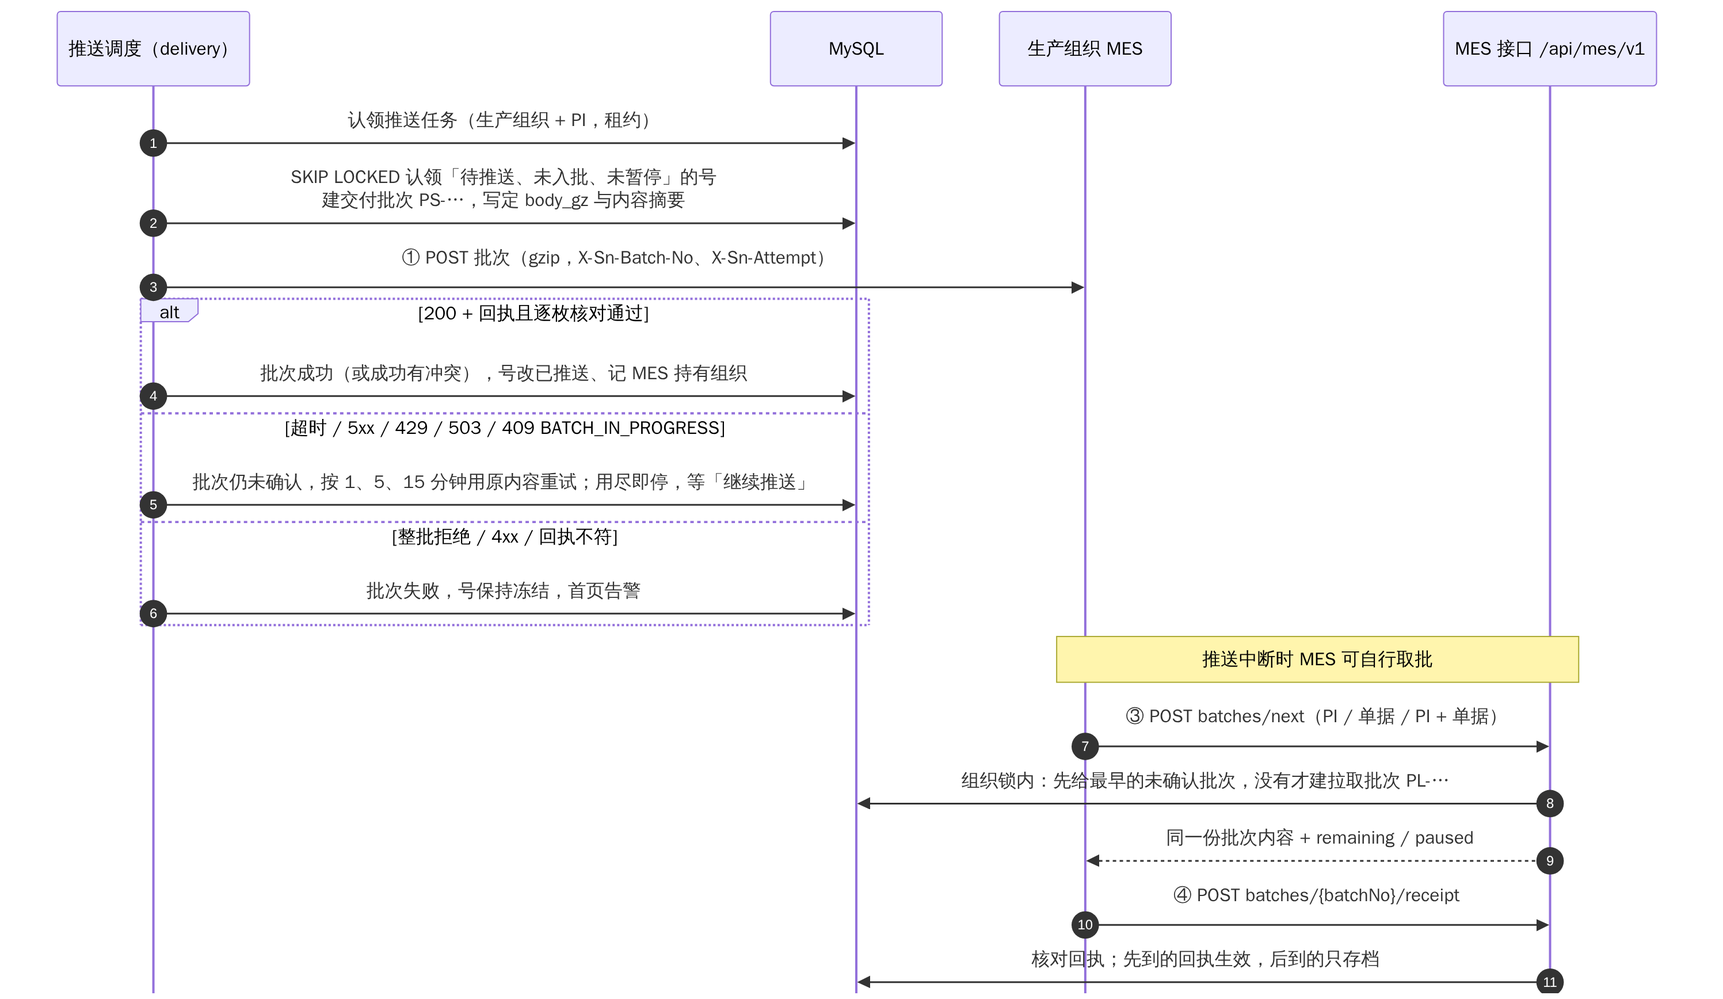
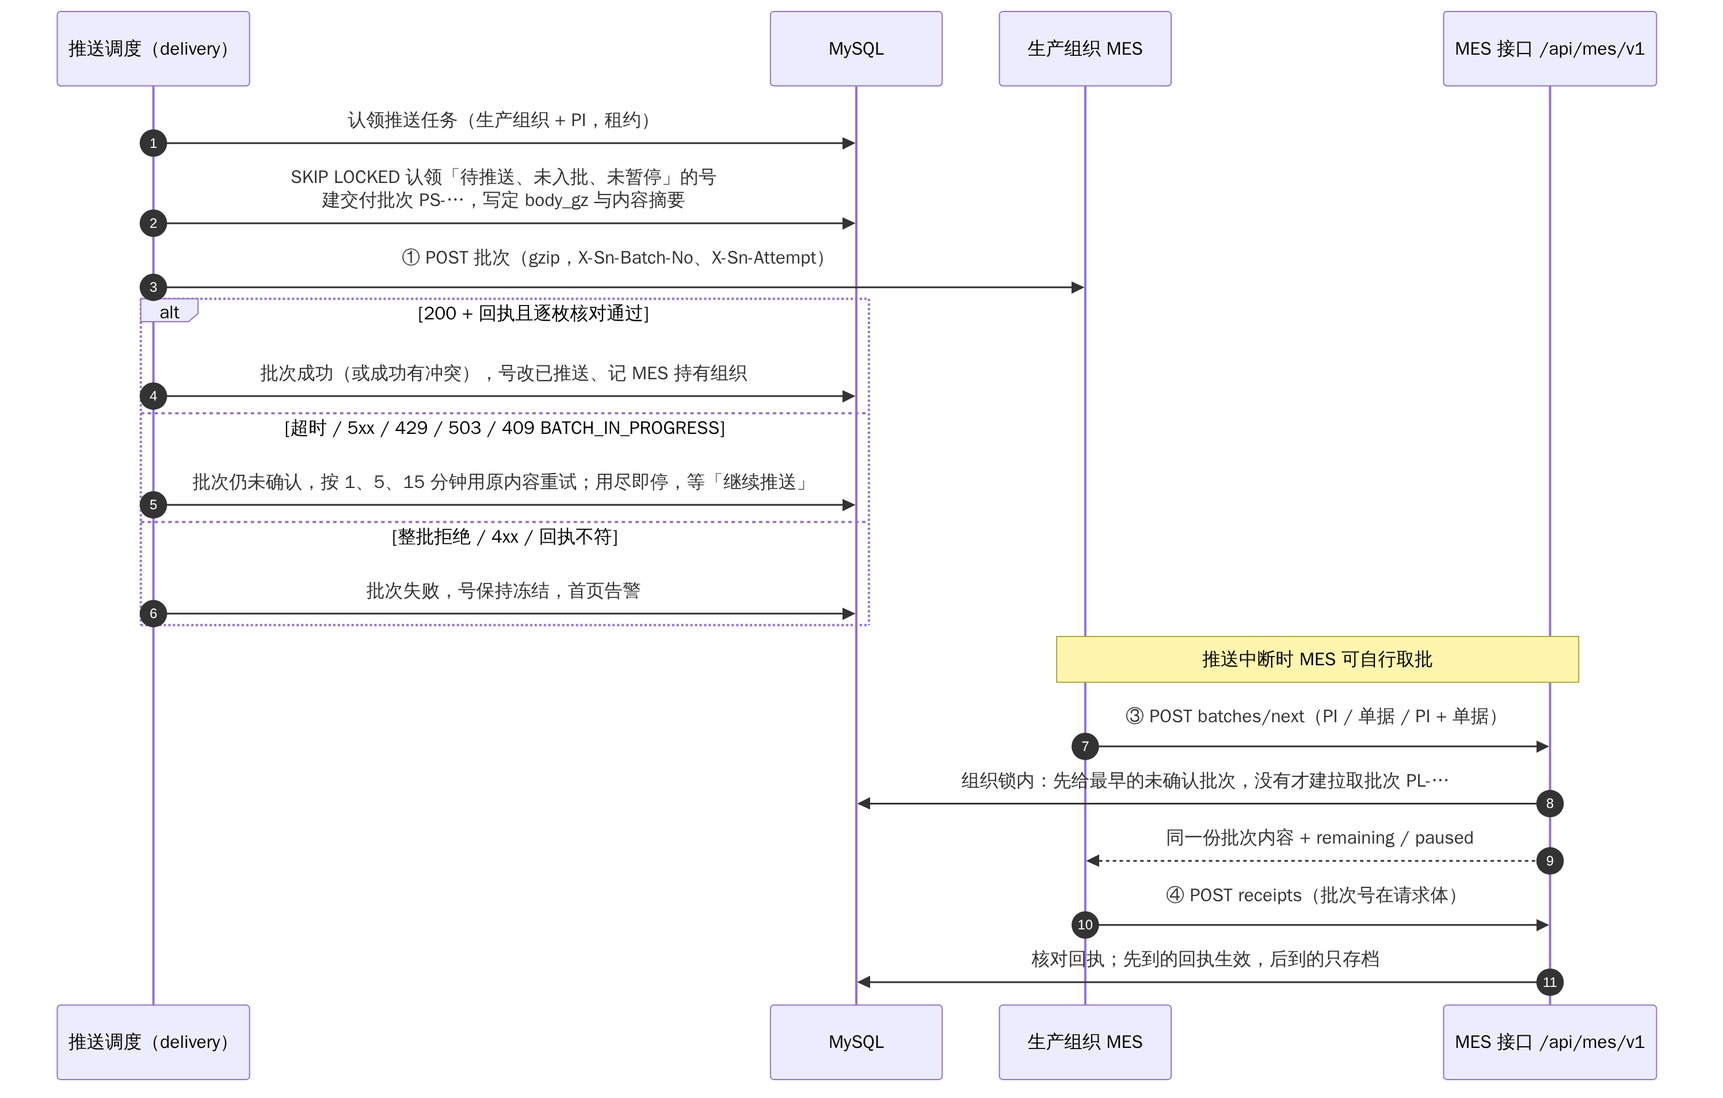
MES 接口参数统一放请求体：③ 回执改为 POST /receipts，④⑤ 改为 POST
- ③ 提交回执：POST /api/mes/v1/receipts，批次号取自请求体 batchNo（须与下发的完全一致）；
  不支持 gzip（请求体带 Content-Encoding: gzip 返回 400）
- ③ batchNo 缺失、code 不是 OK / NG 时 400 INVALID_REQUEST，只拒收、批次不变（原为 422 RECEIPT_MISMATCH 并记批次失败）；
  RECEIPT_MISMATCH 只用于 ① 推送应答核对
- ④ POST /api/mes/v1/sn/delivered、⑤ POST /api/mes/v1/batches/items：参数改到请求体，类型不对时 400；仍支持 gzip
- 删除旧地址 /batches/{batchNo}/receipt、GET /sn/delivered、GET /batches/{batchNo}/items
- 审计规则、模拟 MES、测试、接口文档 / 对接说明 / 技术方案 / PRD / 联调指南 / 运维手册 / README、时序图 3-2 同步

Claude-Session: https://claude.ai/code/session_018UJf3FiBmaa7ENsgc6bsvT

diff --git a/tests/test_delivery.py b/tests/test_delivery.py
@@ -2,11 +2,12 @@
 
 from __future__ import annotations
 
+import gzip
 import json
 import re
 from datetime import UTC, datetime, timedelta
 
-from conftest import MES, emp, m, ok, uid, xlsx_rows
+from conftest import MES, Res, emp, m, ok, uid, xlsx_rows
 
 
 def setup_pi(w, qty: int = 12, batch_size: int = 5, mes: bool = True, prefix: str | None = None):
@@ -122,7 +123,7 @@ def test_manual_attach_goes_to_mes(w, sql):
     body = MES.received[-1]["batch"]
     assert body["pi"] == pi and {x["attachNo"] for x in body["items"]} == {"A-07"}
     ta, _ = w.mes_account(org)
-    got = ok(w.api.get(f"/api/mes/v1/sn/delivered?pi={pi}", ta))["items"]
+    got = ok(w.mes_delivered(ta, pi=pi))["items"]
     assert [x["attachNo"] for x in got] == ["A-07", "A-07"]
 
 
@@ -254,10 +255,10 @@ def test_pull_returns_same_unconfirmed_batch_until_receipt(w, sql):
     r2 = ok(w.mes_next(token))
     assert r2["batch"]["batchNo"] == pushed["batch_no"], "没回执前再取仍是同一批"
     receipt = MES.process(org, r1["batch"])
-    rc = ok(w.mes_receipt(token, pushed["batch_no"], receipt))
+    rc = ok(w.mes_receipt(token, receipt))
     assert (rc["batchNo"], rc["batchResult"], rc["firstConfirmation"]) == (pushed["batch_no"], "SUCCESS", True)
     assert rc["message"] and rc["timestamp"]
-    assert ok(w.mes_receipt(token, pushed["batch_no"], receipt))["firstConfirmation"] is False
+    assert ok(w.mes_receipt(token, receipt))["firstConfirmation"] is False
     assert sql.all("SELECT verdict FROM sn_delivery_receipt WHERE batch_id = %s ORDER BY id", pushed["id"]) == [
         {"verdict": "CONFIRMED"},
         {"verdict": "ARCHIVED"},
@@ -272,12 +273,12 @@ def test_pull_returns_same_unconfirmed_batch_until_receipt(w, sql):
     r3 = ok(w.mes_next(token))
     assert r3["batch"]["batchNo"].startswith("PL-") and len(r3["batch"]["items"]) == 2
     assert r3["remaining"] == 0
-    ok(w.mes_receipt(token, r3["batch"]["batchNo"], MES.process(org, r3["batch"])))
+    ok(w.mes_receipt(token, MES.process(org, r3["batch"])))
     r4 = ok(w.mes_next(token))
     assert r4["batch"] is None and r4["remaining"] == 0
 
 
-def test_pull_receipt_mismatch_rejected_then_fixed(w, sql):
+def test_pull_receipt_invalid_rejected_batch_unchanged_then_fixed(w, sql):
     org, pi, bill = setup_pi(w, qty=3, batch_size=5)
     # 不跑推送任务：MES 直接拉取
     w.allocate(pi)
@@ -285,18 +286,64 @@ def test_pull_receipt_mismatch_rejected_then_fixed(w, sql):
     r = ok(w.mes_next(token, pi=pi))
     batch = r["batch"]
     good = MES.process(org, batch)
-    bad = {**good, "code": "PARTIAL"}
-    x = w.mes_receipt(token, batch["batchNo"], bad)
-    assert x.status == 422 and x.code == "RECEIPT_MISMATCH" and x["details"]
-    assert sql.scalar("SELECT result FROM sn_delivery_batch WHERE batch_no = %s", batch["batchNo"]) == "FAILED"
-    # 失败的批次取批时跳过（没有别的号可取 → 空）
-    assert ok(w.mes_next(token))["batch"] is None
-    # 按批次号取回、补交正确回执
+    x = w.mes_receipt(token, {**good, "code": "PARTIAL"})
+    assert (x.status, x.code, x["batchNo"]) == (400, "INVALID_REQUEST", batch["batchNo"])
+    assert x["details"] == [{"field": "code", "reason": "只能是 OK / NG"}]
+    # 参数不合法只拒收：批次仍未确认，不存档，再取仍是同一批
+    b = sql.one("SELECT * FROM sn_delivery_batch WHERE batch_no = %s", batch["batchNo"])
+    assert (b["result"], b["fail_code"]) == ("UNCONFIRMED", None)
+    assert sql.count("SELECT COUNT(*) FROM sn_delivery_receipt WHERE batch_id = %s", b["id"]) == 0
+    assert ok(w.mes_next(token))["batch"]["batchNo"] == batch["batchNo"]
+    # 按批次号取回：内容相同，不改状态
     back = ok(w.mes_next(token, batchNo=batch["batchNo"]))
     assert back["batch"]["itemsDigest"] == batch["itemsDigest"]
-    ok(w.mes_receipt(token, batch["batchNo"], good))
+    ok(w.mes_receipt(token, good))
     assert sql.scalar("SELECT result FROM sn_delivery_batch WHERE batch_no = %s", batch["batchNo"]) == "SUCCESS"
     assert w.mes_next(token, batchNo=batch["batchNo"]).code == "BATCH_CONFIRMED"
+
+
+def test_receipt_batch_no_in_body_and_no_gzip(w, sql):
+    """③ 批次号只在请求体：缺失 400，别的组织的 404；③ 不收 gzip，④⑤ 照收；旧地址已删除。"""
+    org, pi, bill = setup_pi(w, qty=3, batch_size=5)
+    other, opi, _ = setup_pi(w, qty=2, batch_size=5)
+    w.allocate(pi)
+    w.allocate(opi)
+    token, _ = w.mes_account(org)
+    otoken, _ = w.mes_account(other)
+    batch = ok(w.mes_next(token, pi=pi))["batch"]
+    good = MES.process(org, batch)
+    for body in ({"code": "OK"}, {"batchNo": " ", "code": "OK"}, {"batchNo": 1, "code": "OK"}):
+        x = w.mes_receipt(token, body)
+        assert (x.status, x.code, x["details"][0]["field"]) == (400, "INVALID_REQUEST", "batchNo"), str(x)
+    assert w.mes_receipt(otoken, good).code == "BATCH_NOT_FOUND", "别的组织的批次"
+    assert w.mes_receipt(token, {**good, "batchNo": batch["batchNo"].lower()}).code == "BATCH_NOT_FOUND"
+
+    def gz(path: str, body: dict) -> Res:
+        raw = gzip.compress(json.dumps(body).encode("utf-8"))
+        h = {"Content-Type": "application/json", "Content-Encoding": "gzip", "Authorization": f"Bearer {token}"}
+        r = w.api.client.post(path, content=raw, headers=h)
+        return Res(r.status_code, r.json(), r.content)
+
+    x = gz("/api/mes/v1/receipts", good)
+    assert (x.status, x.code) == (400, "INVALID_REQUEST") and "gzip" in x["message"]
+    assert sql.scalar("SELECT result FROM sn_delivery_batch WHERE batch_no = %s", batch["batchNo"]) == "UNCONFIRMED"
+    assert ok(gz("/api/mes/v1/batches/items", {"batchNo": batch["batchNo"]}))["batchNo"] == batch["batchNo"]
+    assert ok(gz("/api/mes/v1/sn/delivered", {"pi": pi}))["items"] == []
+    ok(w.mes_receipt(token, good))
+    assert len(ok(w.mes_items(token, batch["batchNo"]))["items"]) == 3
+    assert len(ok(w.mes_delivered(token, pi=pi, pageSize=2))["items"]) == 2
+    # ④⑤ 参数类型
+    for x, field in (
+        (w.mes_items(token, batch["batchNo"], pageSize="2"), "pageSize"),
+        (w.mes_delivered(token, pageSize=True), "pageSize"),
+        (w.mes_delivered(token, cursor=10), "cursor"),
+        (w.api.post("/api/mes/v1/batches/items", {}, token), "batchNo"),
+    ):
+        assert (x.status, x.code, x["details"][0]["field"]) == (400, "INVALID_REQUEST", field), str(x)
+    # 旧地址
+    assert w.api.post(f"/api/mes/v1/batches/{batch['batchNo']}/receipt", good, token).status == 404
+    assert w.api.get(f"/api/mes/v1/batches/{batch['batchNo']}/items", token).status == 404
+    assert w.api.get(f"/api/mes/v1/sn/delivered?pi={pi}", token).status == 405
 
 
 def test_void_returns_items_to_pool_and_rebatches(w, sql):
@@ -405,13 +452,13 @@ def test_rejected_batch_voided_rebatches_and_refuses_voided(w, sql):
     back = ok(w.mes_next(token, batchNo=b["batch_no"]))
     assert back["batch"]["batchNo"] == b["batch_no"]
     ng = {"batchNo": b["batch_no"], "code": "NG", "message": "仍不能处理"}
-    rc = ok(w.mes_receipt(token, b["batch_no"], ng))
+    rc = ok(w.mes_receipt(token, ng))
     # 整批退回已登记，本次回执生效（接口文档 3.3）
     assert (rc["batchResult"], rc["firstConfirmation"]) == ("FAILED", True)
     ok(w.api.post(f"/api/delivery/batches/{b['batch_no']}/void", m(reason="整批拒收", basis="MES 确认未处理"), w.admin))
     assert w.mes_next(token, batchNo=b["batch_no"]).code == "BATCH_VOIDED"
     late = {"batchNo": b["batch_no"], "code": "OK", "message": None}
-    assert w.mes_receipt(token, b["batch_no"], late).code == "BATCH_VOIDED"
+    assert w.mes_receipt(token, late).code == "BATCH_VOIDED"
     MES.clear_fault(org)
     ok(w.api.post("/api/delivery/resume", m(factory_code=org, key=pi), w.admin))
     w.push()

diff --git a/app/api/routes/mes.py b/app/api/routes/mes.py
@@ -2,7 +2,8 @@
 
 - 认证：MES 接口账户每次请求带 Authorization: Bearer <工号>:<密钥>，不换令牌（见 deps.mes_user）。
 
-- 请求和应答都支持 gzip；字段名英文小驼峰；请求和应答都带 schemaVersion（首版 1.0），不认识的字段忽略。
+- 一律 POST + JSON 请求体，地址里不带参数。请求体和应答都支持 gzip，只有 ③ 回执不支持（报文很小）。
+- 字段名英文小驼峰；请求和应答都带 schemaVersion（首版 1.0），不认识的字段忽略。
 - 应答信封统一为 {"schemaVersion", "code", "message", "batchNo", "timestamp", ...}：成功为 HTTP 200 且 code = OK；
   出错不返回 200，另带 details。时间一律 UTC+8，格式 2026-10-26 11:47:05.303。
 - ②③ 只有 MES 接口账户能调（只限所绑生产组织）；④⑤ 另可由页面账户用登录令牌按授权范围调用。
@@ -24,9 +25,11 @@ from app.services import delivery
 router = APIRouter(prefix="/mes/v1", tags=["open"])
 
 
-async def _json(request: Request) -> dict:
+async def _json(request: Request, gzip_ok: bool = True) -> dict:
     raw = await request.body()
     if request.headers.get("content-encoding", "").lower() == "gzip":
+        if not gzip_ok:
+            raise MesError(400, "INVALID_REQUEST", "本接口不支持 gzip，请发原始 JSON")
         try:
             raw = gzip.decompress(raw)
         except OSError:
@@ -38,6 +41,30 @@ async def _json(request: Request) -> dict:
     if not isinstance(body, dict):
         raise MesError(400, "INVALID_REQUEST", "请求体须为 JSON 对象")
     return body
+
+
+def _bad(field: str, reason: str) -> MesError:
+    return MesError(400, "INVALID_REQUEST", f"参数不合法：{field}", details=[{"field": field, "reason": reason}])
+
+
+def _str(body: dict, field: str, required: bool = False) -> str | None:
+    v = body.get(field)
+    if v is None or (required and isinstance(v, str) and not v.strip()):
+        if required:
+            raise _bad(field, "必填")
+        return None
+    if not isinstance(v, str):
+        raise _bad(field, "须为字符串")
+    return v
+
+
+def _int(body: dict, field: str) -> int | None:
+    v = body.get(field)
+    if v is None:
+        return None
+    if not isinstance(v, int) or isinstance(v, bool):
+        raise _bad(field, "须为整数")
+    return v
 
 
 def _only_mes(cu: CurrentUser) -> None:
@@ -56,29 +83,22 @@ async def next_batch(request: Request, cu: CurrentUser = Depends(mes_user)) -> d
     return await run_sync(delivery.next_batch, cu, body.get("pi"), body.get("billNo"), body.get("batchNo"))
 
 
-@router.post("/batches/{batch_no}/receipt", summary="③ 提交回执（或整批拒收）；按批次号幂等")
-async def receipt(batch_no: str, request: Request, cu: CurrentUser = Depends(mes_user)) -> dict:
+@router.post("/receipts", summary="③ 提交回执（或整批拒收）：批次号在请求体；按批次号幂等；不支持 gzip")
+async def receipt(request: Request, cu: CurrentUser = Depends(mes_user)) -> dict:
     _only_mes(cu)
+    body = await _json(request, gzip_ok=False)
+    return await run_sync(delivery.submit_receipt, cu, _str(body, "batchNo", True), body)
+
+
+@router.post("/sn/delivered", summary="④ 查询已交付给本组织的号（只读，只用于核对，不得据此入库、打标或删除）")
+async def delivered(request: Request, cu: CurrentUser = Depends(mes_user)) -> dict:
     body = await _json(request)
-    return await run_sync(delivery.submit_receipt, cu, batch_no, body)
+    args = (_str(body, "orgCode"), _str(body, "pi"), _str(body, "cursor"), _int(body, "pageSize"))
+    return await run_sync(delivery.read_delivered, cu, *args)
 
 
-@router.get("/sn/delivered", summary="④ 查询已交付给本组织的号（只读，只用于核对，不得据此入库、打标或删除）")
-def delivered(
-    cu: CurrentUser = Depends(mes_user),
-    pi: str | None = None,
-    orgCode: str | None = None,  # noqa: N803
-    cursor: str | None = None,
-    pageSize: int | None = None,  # noqa: N803
-) -> dict:
-    return delivery.read_delivered(cu, orgCode, pi, cursor, pageSize)
-
-
-@router.get("/batches/{batch_no}/items", summary="⑤ 查询某个批次里仍在该批次中的号（只读）")
-def batch_items(
-    batch_no: str,
-    cu: CurrentUser = Depends(mes_user),
-    cursor: str | None = None,
-    pageSize: int | None = None,  # noqa: N803
-) -> dict:
-    return delivery.read_batch_items(cu, batch_no, cursor, pageSize)
+@router.post("/batches/items", summary="⑤ 查询某个批次里仍在该批次中的号（只读）")
+async def batch_items(request: Request, cu: CurrentUser = Depends(mes_user)) -> dict:
+    body = await _json(request)
+    args = (_str(body, "batchNo", True), _str(body, "cursor"), _int(body, "pageSize"))
+    return await run_sync(delivery.read_batch_items, cu, *args)

diff --git a/app/services/delivery/pull.py b/app/services/delivery/pull.py
@@ -11,6 +11,8 @@ from app.services import audit, changes, factories, locks, rules
 from app.services.delivery.batches import (
     CONFIRMED,
     M_PULL,
+    RECEIPT_NG,
+    RECEIPT_OK,
     SRC_PULL,
     VOIDED,
     body_obj,
@@ -185,21 +187,23 @@ _RECEIPT_MSG = {
 
 
 def submit_receipt(cu: CurrentUser, batch_no: str, body: dict) -> dict:
-    """接口 ③ 提交回执（或整批拒收）。按批次号幂等：已确认的只存档；已作废的拒绝；不符时拒收并记批次失败。
-    应答回传本系统的处理结果：批次结果、本次回执是否生效（首次确认或整批退回已登记为 true，此前已确认、只存档为
-    false）。"""
+    """接口 ③ 提交回执（或整批拒收）。批次号取自请求体，按批次号幂等：已确认的只存档；已作废的拒绝。
+    code 不是 OK / NG 时 400 拒收、批次不变，MES 改正后重交。应答回传本系统的处理结果：批次结果、本次回执是否生效
+    （首次确认或整批退回已登记为 true，此前已确认、只存档为 false）。"""
     org = cu.factory_code
     _rate_limit(org)
+    if body.get("code") not in (RECEIPT_OK, RECEIPT_NG):
+        raise MesError(
+            400, "INVALID_REQUEST", "参数不合法：code", batch_no, [{"field": "code", "reason": "只能是 OK / NG"}]
+        )
     b = find_batch(batch_no)
-    if b is None or b["factory_code"] != org:
+    if b is None or b["batch_no"] != batch_no or b["factory_code"] != org:
         raise MesError(404, "BATCH_NOT_FOUND", "批次号不存在，或不属于本组织", batch_no)
     if b["result"] == VOIDED:
         raise MesError(409, "BATCH_VOIDED", "批次已作废，不得再处理这批内容", batch_no)
     applied = apply_receipt(cu, b["batch_no"], body, M_PULL)
     if applied.verdict == "VOIDED":
         raise MesError(409, "BATCH_VOIDED", "批次已作废，不得再处理这批内容", batch_no)
-    if applied.verdict == "MISMATCH":
-        raise MesError(422, "RECEIPT_MISMATCH", "回执与批次不符", batch_no, applied.details)
     return mes_body(
         "OK",
         _RECEIPT_MSG[applied.verdict],

diff --git a/tests/test_query_audit.py b/tests/test_query_audit.py
@@ -72,18 +72,18 @@ def test_delivered_read_only_for_mes(w, api, sql):
     org, pi, bill = make(w, 3, mes=True)
     w.allocate(pi)
     token, _ = w.mes_account(org)
-    assert ok(api.get(f"/api/mes/v1/sn/delivered?pi={pi}", token))["items"] == [], "未推送的不返回"
+    assert ok(api.post("/api/mes/v1/sn/delivered", m(pi=pi), token))["items"] == [], "未推送的不返回"
     w.push()
-    r = ok(api.get(f"/api/mes/v1/sn/delivered?pi={pi}&pageSize=2", token))
+    r = ok(api.post("/api/mes/v1/sn/delivered", m(pi=pi, pageSize=2), token))
     assert len(r["items"]) == 2 and r["nextCursor"]
-    r2 = ok(api.get(f"/api/mes/v1/sn/delivered?pi={pi}&pageSize=2&cursor={r['nextCursor']}", token))
+    r2 = ok(api.post("/api/mes/v1/sn/delivered", m(pi=pi, pageSize=2, cursor=r["nextCursor"]), token))
     assert len(r2["items"]) == 1 and r2["nextCursor"] is None
     assert {x["status"] for x in r["items"] + r2["items"]} == {"PUSHED"}
     q = w.user(emp("Q"), "auditor", org)
-    assert len(ok(api.get(f"/api/mes/v1/sn/delivered?pi={pi}&orgCode={org}", q))["items"]) == 3
+    assert len(ok(api.post("/api/mes/v1/sn/delivered", m(pi=pi, orgCode=org), q))["items"]) == 3
     assert api.post("/api/mes/v1/batches/next", m(), q).code == "FORBIDDEN"
     other = w.user(emp("Q"), "auditor", w.org(uid("O")[:10]))
-    assert api.get(f"/api/mes/v1/sn/delivered?pi={pi}&orgCode={org}", other).code == "ORG_NOT_ALLOWED"
+    assert api.post("/api/mes/v1/sn/delivered", m(pi=pi, orgCode=org), other).code == "ORG_NOT_ALLOWED"
 
 
 def test_rate_limited_pull_leaves_failure_audit(w, api, sql, monkeypatch):

diff --git a/tests/test_transfers.py b/tests/test_transfers.py
@@ -100,10 +100,10 @@ def test_org_transfer_pushes_reassign_to_target_and_transfer_out_to_source(w, sq
     # 转出后来源 MES 按批次号、按 PI 只读查询都查不到
     ta, _ = w.mes_account(a)
     first = sql.scalar("SELECT from_delivery_batch FROM sn_transfer_item WHERE kind = 'ORG' LIMIT 1")
-    assert ok(w.api.get(f"/api/mes/v1/batches/{first}/items", ta))["items"] == []
-    assert ok(w.api.get(f"/api/mes/v1/sn/delivered?pi={pi}", ta))["items"] == []
+    assert ok(w.mes_items(ta, first))["items"] == []
+    assert ok(w.mes_delivered(ta, pi=pi))["items"] == []
     xo = t["out_batches"][0]["batch_no"]
-    assert ok(w.api.get(f"/api/mes/v1/batches/{xo}/items", ta))["items"] == []
+    assert ok(w.mes_items(ta, xo))["items"] == []
     # 转回 A：MES-A 收到更大的 rev，清除「已转出」
     ok(org_direct(w, b, pi, bill, a))
     w.push()
@@ -128,7 +128,7 @@ def test_transfer_out_pending_blocks_retransfer(w, sql):
     ta, _ = w.mes_account(a)
     got = ok(w.mes_next(ta, pi=pi))
     assert got["batch"]["batchNo"] == xo["batch_no"] and got["batch"]["batchType"] == "TRANSFER_OUT"
-    ok(w.mes_receipt(ta, xo["batch_no"], MES.process(a, got["batch"])))
+    ok(w.mes_receipt(ta, MES.process(a, got["batch"])))
     assert sql.count("SELECT COUNT(*) FROM sn_item WHERE pi_no = %s AND mes_holder = %s", pi, a) == 0
     ok(org_direct(w, b, pi, bill, a))
 

diff --git a/tests/conftest.py b/tests/conftest.py
@@ -644,8 +644,14 @@ class World:
     def mes_next(self, token: str, **kw: Any) -> Res:
         return self.api.post("/api/mes/v1/batches/next", m(schemaVersion="1.0", **kw), token)
 
-    def mes_receipt(self, token: str, batch_no: str, receipt: dict) -> Res:
-        return self.api.post(f"/api/mes/v1/batches/{batch_no}/receipt", receipt, token)
+    def mes_receipt(self, token: str, receipt: dict) -> Res:
+        return self.api.post("/api/mes/v1/receipts", receipt, token)
+
+    def mes_delivered(self, token: str, **kw: Any) -> Res:
+        return self.api.post("/api/mes/v1/sn/delivered", m(**kw), token)
+
+    def mes_items(self, token: str, batch_no: str, **kw: Any) -> Res:
+        return self.api.post("/api/mes/v1/batches/items", m(batchNo=batch_no, **kw), token)
 
 
 @pytest.fixture

diff --git a/app/main.py b/app/main.py
@@ -213,9 +213,9 @@ def create_app() -> FastAPI:
 
     @app.exception_handler(MesError)
     async def mes_error_handler(request: Request, exc: MesError) -> JSONResponse:
-        # 被拒绝的 MES 请求（越权、限流、批次不存在等）留失败痕迹；回执不符已在处理时留痕
+        # 被拒绝的 MES 请求（越权、限流、参数不合法、批次不存在等）留失败痕迹
         user = getattr(request.state, "user", None)
-        if isinstance(user, CurrentUser) and exc.code != "RECEIPT_MISMATCH":
+        if isinstance(user, CurrentUser):
             try:
                 await run_sync(
                     audit_svc.record_failure,

diff --git a/tests/test_orders.py b/tests/test_orders.py
@@ -208,7 +208,7 @@ def test_reversal_suspends_undelivered_and_resumes(w, api, sql):
     token, _ = w.mes_account(org)
     r = ok(w.mes_next(token))
     assert len(r["batch"]["items"]) == 4 and r["paused"] == 2
-    ok(w.mes_receipt(token, r["batch"]["batchNo"], MES.process(org, r["batch"])))
+    ok(w.mes_receipt(token, MES.process(org, r["batch"])))
     r = ok(w.mes_next(token, billNo=bill))
     assert r["batch"] is None and r["paused"] == 2
     # 重新审核、没有变化 → 自动解除，并自动推送

diff --git a/devtools/mes_mock.py b/devtools/mes_mock.py
@@ -521,7 +521,7 @@ class Puller:
                 self.log(f"   process 返回 {st} {receipt}，停止")
                 done.append({"step": "process", "batchNo": b["batchNo"], "status": st, "body": receipt})
                 break
-            rs, rd, _ = self.call(f"/batches/{b['batchNo']}/receipt", receipt)
+            rs, rd, _ = self.call("/receipts", receipt)
             rec = {
                 "step": "receipt",
                 "batchNo": b["batchNo"],

diff --git a/tests/test_unit.py b/tests/test_unit.py
@@ -477,7 +477,7 @@ def test_db_target_env_overrides_dotenv(monkeypatch):
         ("POST", "/api/generate/revoke", "SN_REVOKE"),
         ("POST", "/api/orders/alerts/3/handle", "ORDER_ALERT_HANDLE"),
         ("POST", "/api/mes/v1/batches/next", "SN_PULL"),
-        ("POST", "/api/mes/v1/batches/PS-1/receipt", "SN_RECEIPT"),
+        ("POST", "/api/mes/v1/receipts", "SN_RECEIPT"),
         ("PUT", "/api/auth/lang", "OTHER"),
     ],
 )

diff --git a/app/services/audit.py b/app/services/audit.py
@@ -259,7 +259,7 @@ _PATH_ACTIONS = (
     (r"/api/transfers/org/\d+/withdraw", TRANSFER_WITHDRAW),
     (r"/api/transfers/org.*", TRANSFER_APPLY),
     (r"/api/mes/v1/batches/next", SN_PULL),
-    (r"/api/mes/v1/batches/[^/]+/receipt", SN_RECEIPT),
+    (r"/api/mes/v1/receipts", SN_RECEIPT),
     (r"/api/mes/v1/.*", SN_READ),
 )
 
